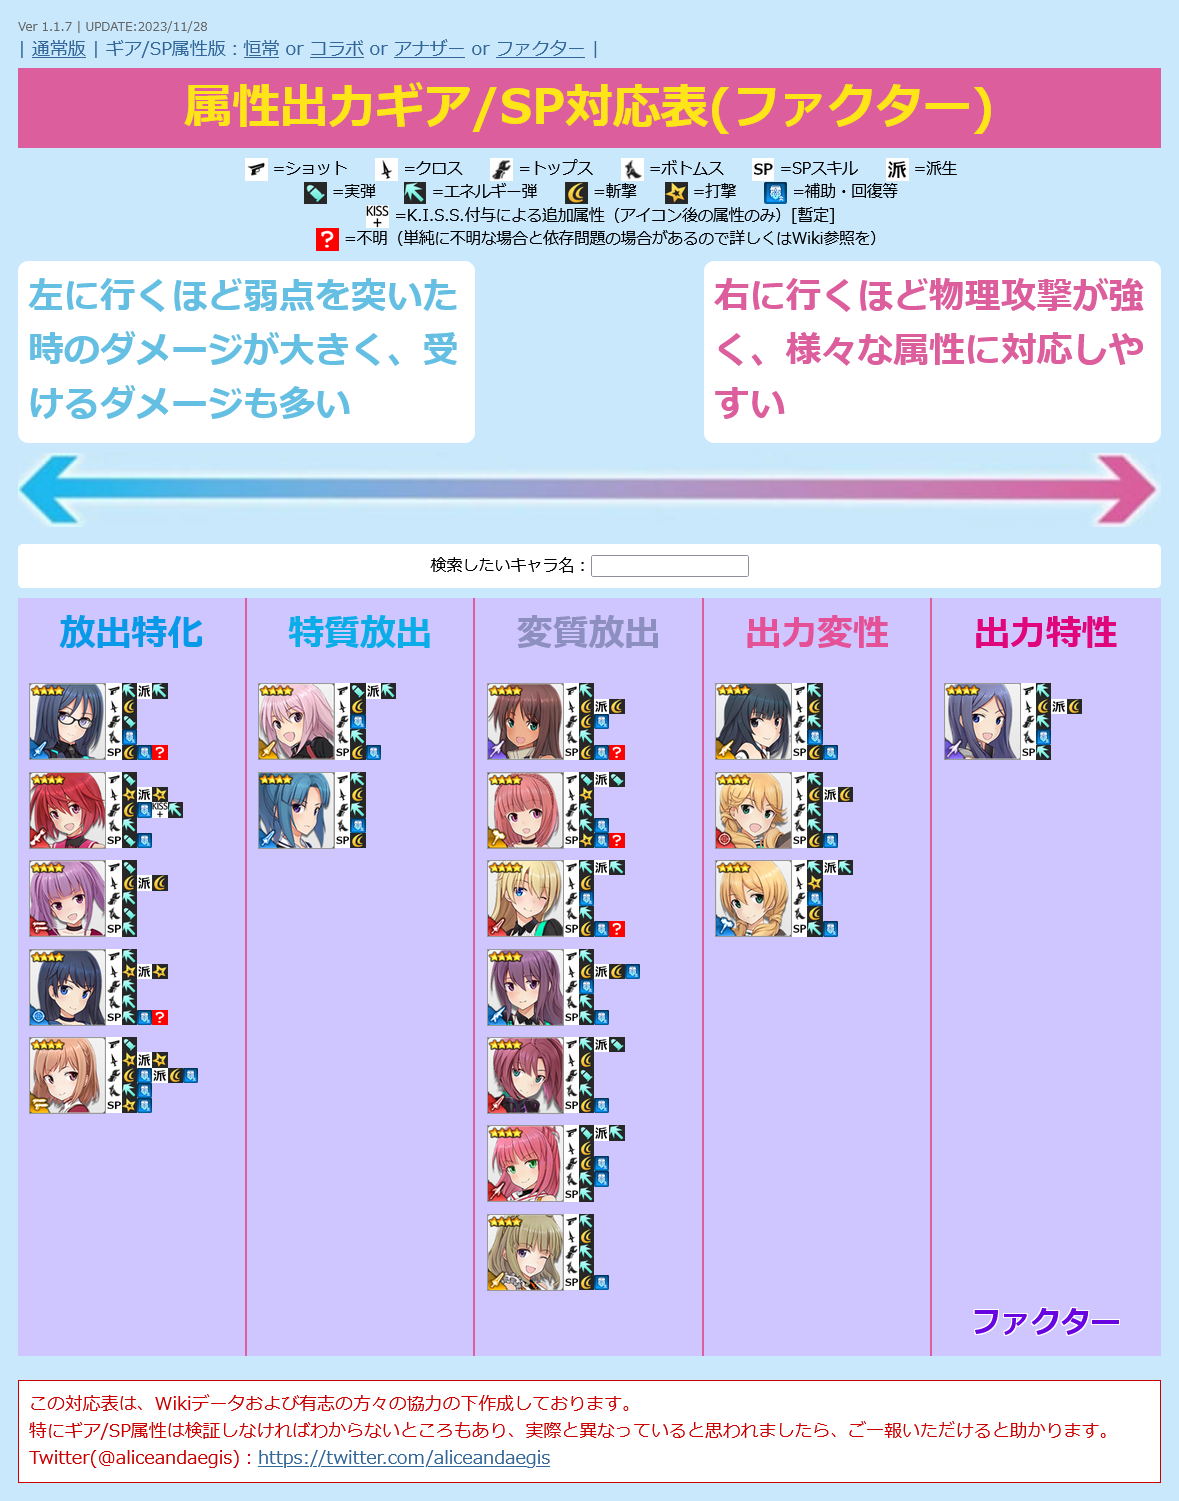
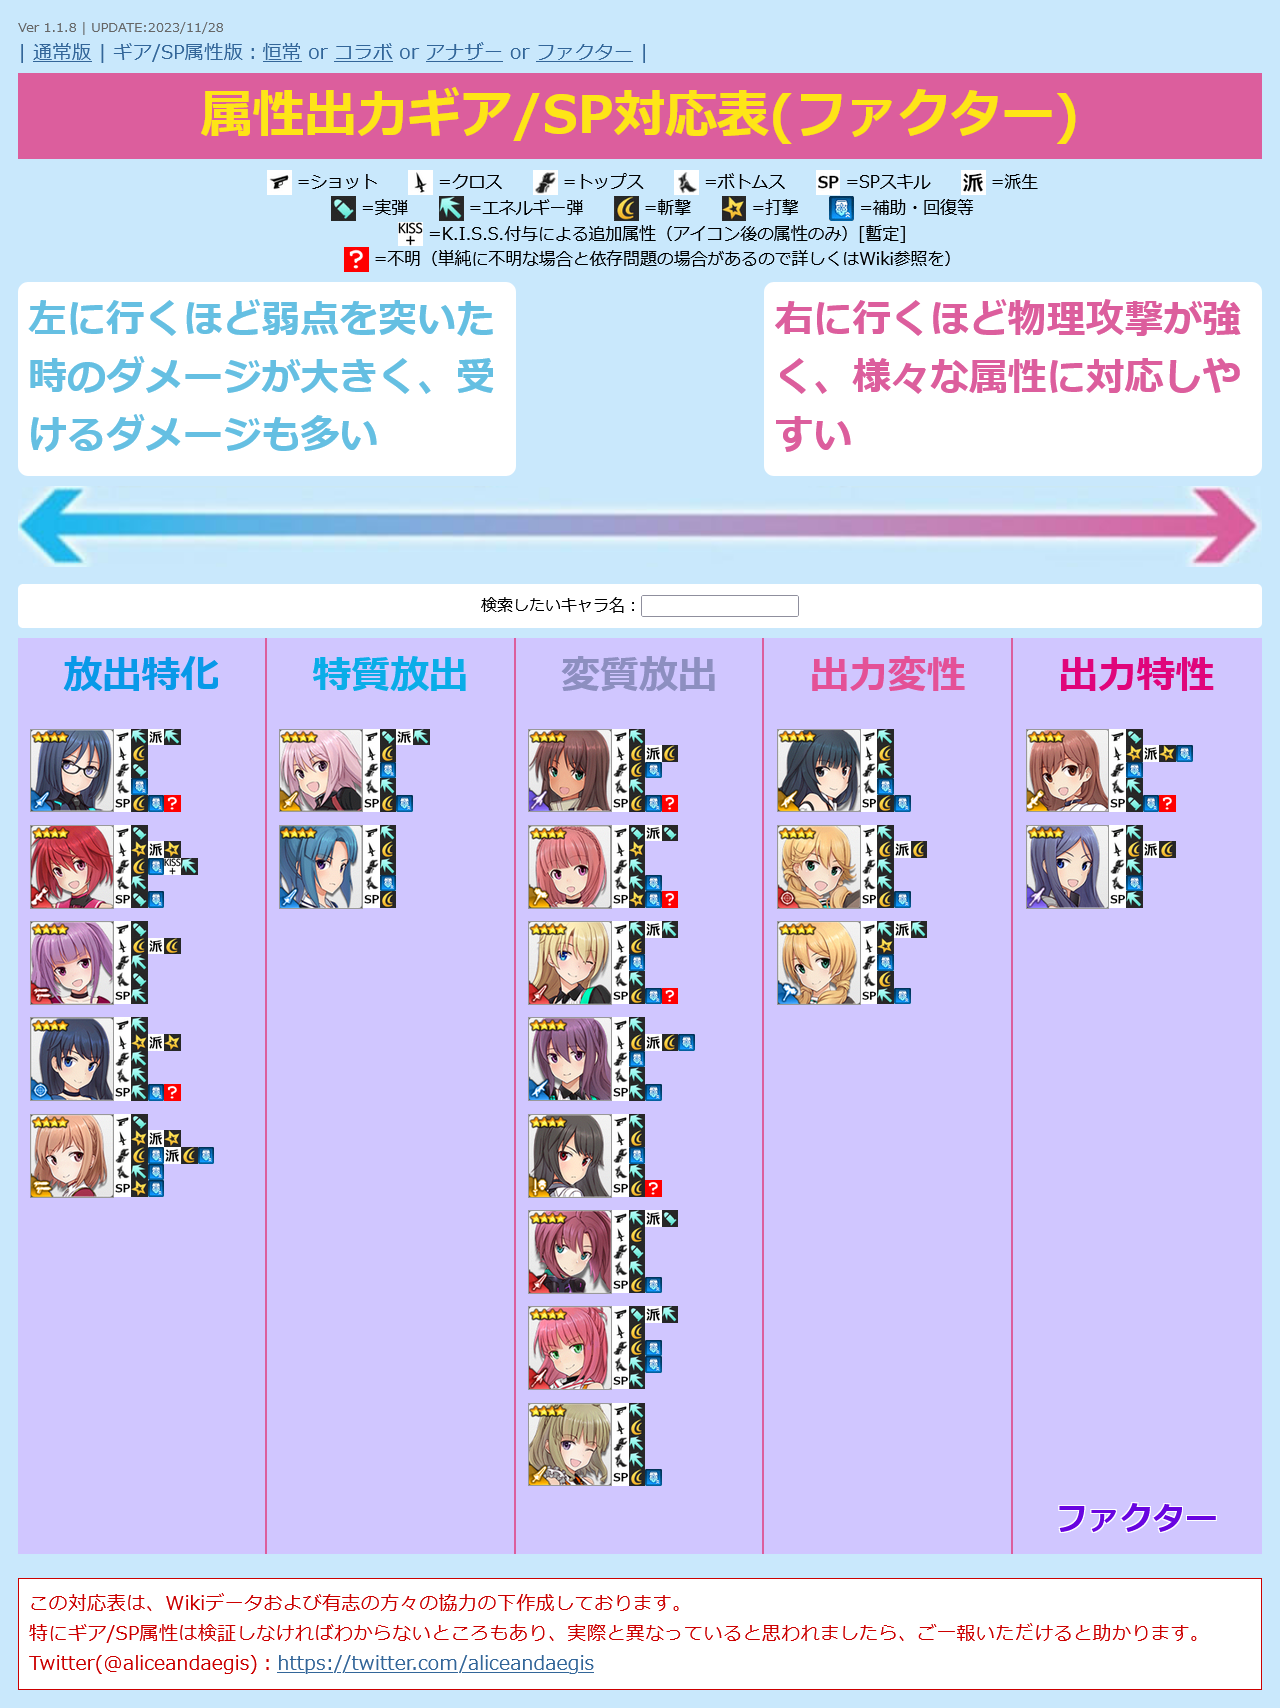
UPDATA charadate
・ファクター 宇佐元 杏奈 / レジェンドを追加
・ファクター 神宮寺 真理 / レジェンドを追加

diff --git a/alice.html b/alice.html
@@ -12,7 +12,7 @@
   <script>
 
 /* 更新情報 必要に応じて書き換えてください */
-  var version = "Ver 1.1.8 | UPDATE:2023/11/28";
+  var version = "Ver 1.1.8 | UPDATE:2023/12/21";
 
 
 /*
@@ -655,6 +655,20 @@
       "category": "10"
     },
     {
+      "id": "16",
+      "type": "5",
+      "src": "factor-anna.png",
+      "name": "宇佐元 杏奈 / レジェンド",
+      "equip1": "1",
+      "equip2": "4/45",
+      "equip3": "5",
+      "equip4": "2",
+      "sp": "15?",
+      "attr": "1",
+      "link": "https://wikiwiki.jp/alicegear/%E5%AE%87%E4%BD%90%E5%85%83%E6%9D%8F%E5%A5%88/%E3%83%AC%E3%82%B8%E3%82%A7%E3%83%B3%E3%83%89",
+      "category": "11"
+    },
+    {
       "id": "17",
       "type": "3",
       "src": "normal-meika.png",
@@ -737,6 +751,20 @@
       "attr": "1",
       "link": "https://wikiwiki.jp/alicegear/%E7%A5%9E%E5%AE%AE%E5%AF%BA%E7%9C%9F%E7%90%86%E5%AD%A4%E5%BD%B1",
       "category": "10"
+    },
+    {
+      "id": "19",
+      "type": "3",
+      "src": "factor-mari.png",
+      "name": "神宮寺 真理 / レジェンド",
+      "equip1": "2",
+      "equip2": "3",
+      "equip3": "5",
+      "equip4": "2",
+      "sp": "3?",
+      "attr": "1",
+      "link": "https://wikiwiki.jp/alicegear/%E7%A5%9E%E5%AE%AE%E5%AF%BA%E7%9C%9F%E7%90%86/%E3%83%AC%E3%82%B8%E3%82%A7%E3%83%B3%E3%83%89",
+      "category": "11"
     },
     {
       "id": "20",
@@ -2370,8 +2398,8 @@
       "equip1": "2",
       "equip2": "3",
       "equip3": "25",
-      "equip4": "25?",
-      "sp": "2?",
+      "equip4": "25",
+      "sp": "2",
       "attr": "1",
       "link": "https://wikiwiki.jp/alicegear/%E5%A4%A9%E9%87%8E%E6%9C%9B",
       "category": "99"
@@ -2385,7 +2413,7 @@
       "equip2": "3",
       "equip3": "25",
       "equip4": "5",
-      "sp": "2?",
+      "sp": "2",
       "attr": "2",
       "link": "https://wikiwiki.jp/alicegear/%E8%8A%B9%E6%B2%A2%E8%93%AE%E8%8F%AF",
       "category": "99"
